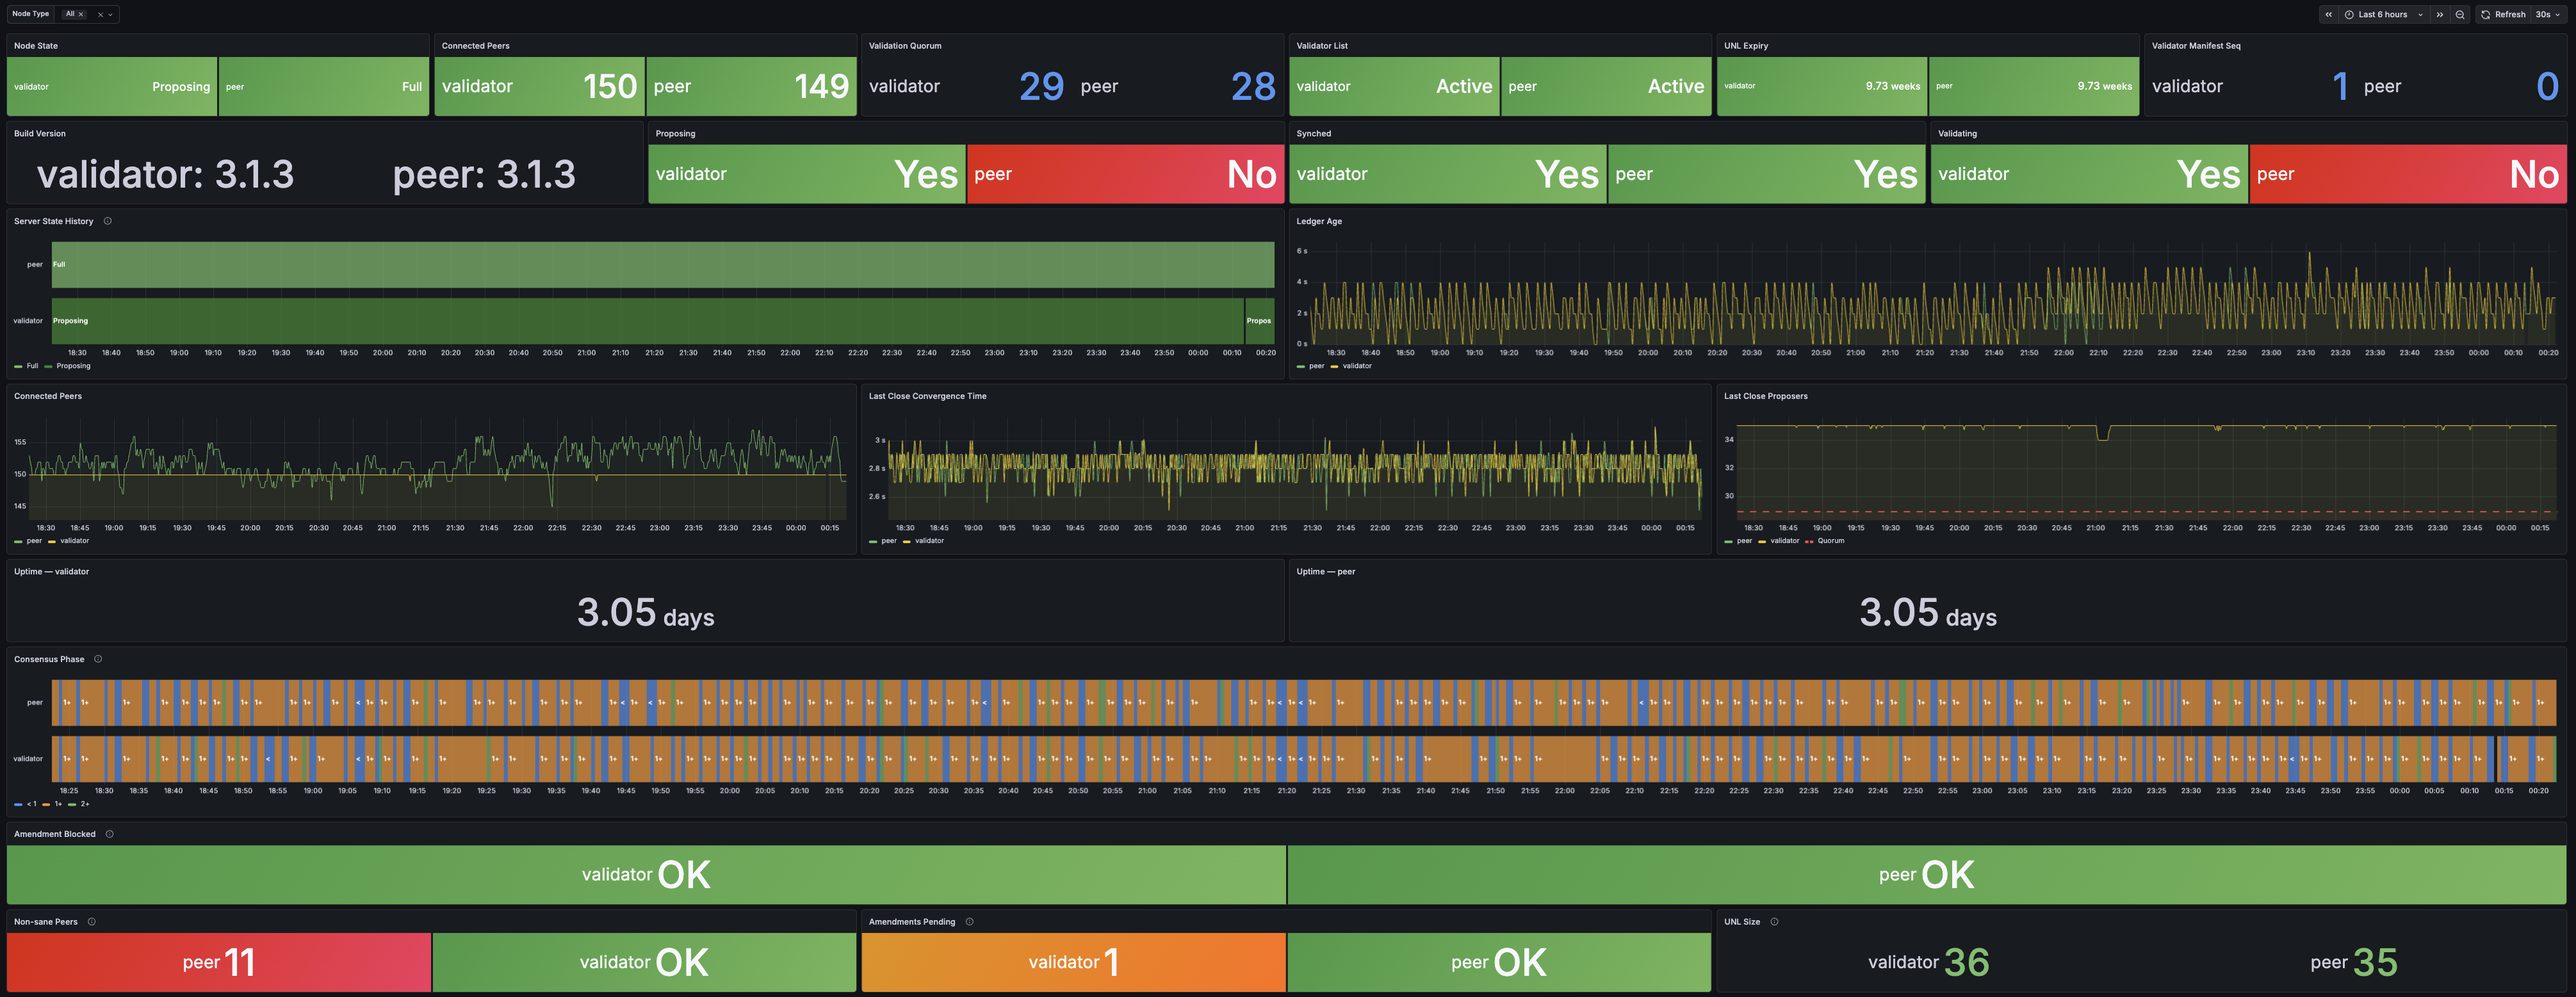
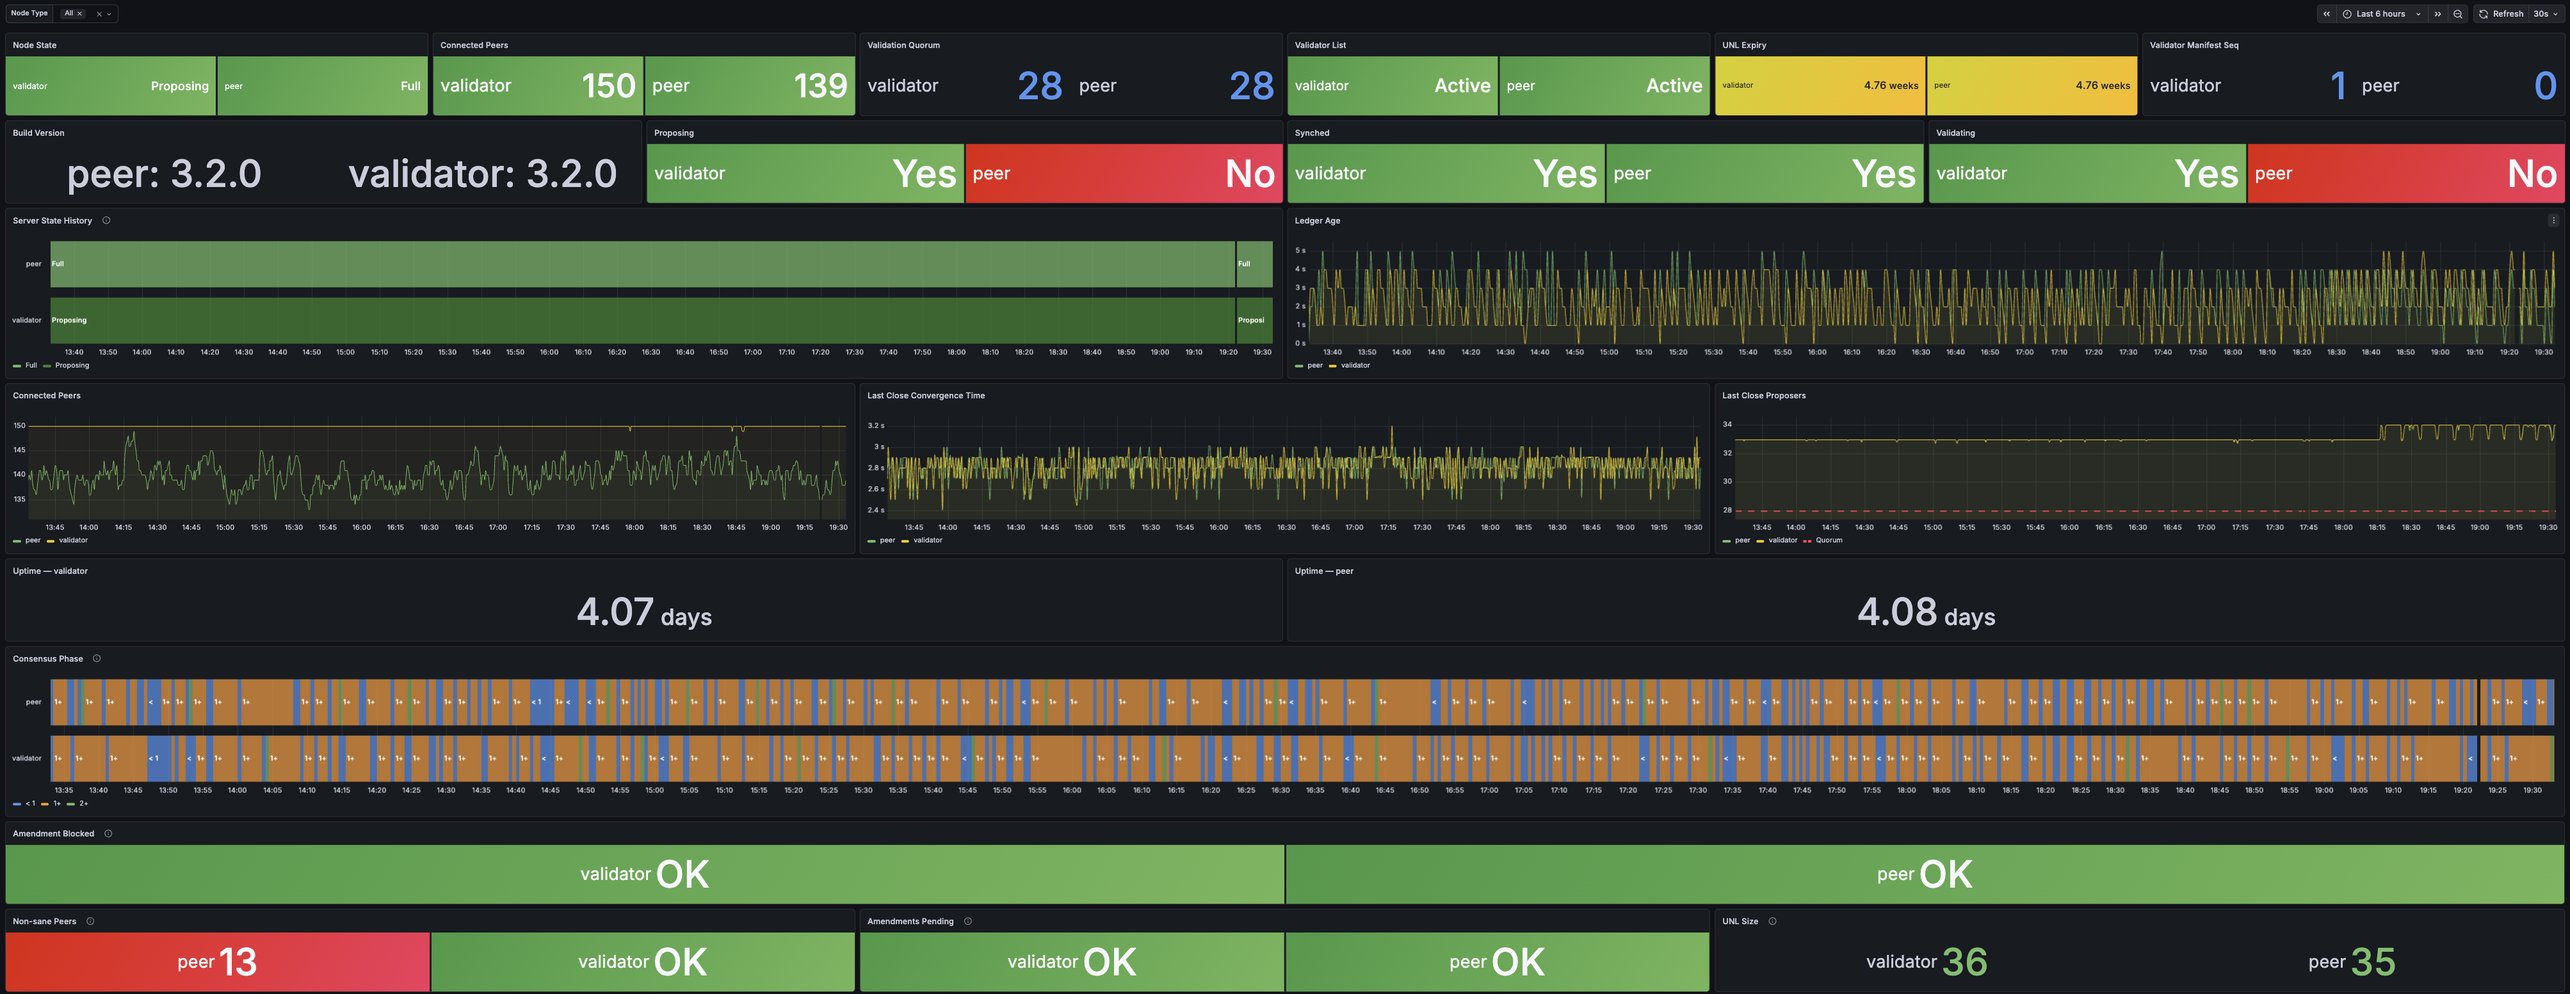
fix(exporter): support xrpld 3.2.0 namespace + windowed node-read hit… (#3)
* fix(exporter): support xrpld 3.2.0 namespace + windowed node-read hit rate, bump to v1.5.1

- objects_in_memory: read xrpl:: get_counts keys (3.2.0) with ripple:: fallback
  for pre-3.2.0 nodes; fixes Objects in Memory panel showing all zeros after the
  xrpld 3.2.0 ripple->xrpl namespace rename
- node_read_hit_rate: compute over per-scrape delta window instead of cumulative
  since startup, so transient cache-miss bursts recover realistically
- dashboard: rippled-deep-dive 45->44 panels, hit-rate panel description updates
- tests: add TestObjectsInMemoryNamespace (xrpl/ripple prefix, preference,
  missing key, nested HashRouter::Entry)
- bump __version__ 1.4.1 -> 1.5.1

* docs(readme): document xrpld 3.2.0 namespace handling in known issues

* docs(screenshots): refresh dashboard screenshots for v1.5.1

Updated overview and deep-dive (top/middle/bottom) captures reflecting the
44-panel layout and working Objects in Memory panel (xrpld 3.2.0 namespace fix).

---------

diff --git a/exporter/exporter.py b/exporter/exporter.py
@@ -28,7 +28,7 @@ from typing import Any
 import requests
 from prometheus_client import Counter as PromCounter, Gauge, start_http_server
 
-__version__ = "1.4.1"
+__version__ = "1.5.1"
 
 logging.basicConfig(
     level=logging.INFO,
@@ -87,6 +87,14 @@ _db_node_reads_last: int = 0
 _db_node_read_bytes_last: int = 0
 _db_node_written_bytes_last: int = 0
 _db_node_reads_duration_us_last: int = 0
+
+# Track raw node read hit/total counters so the node read hit rate can be
+# computed over the per-scrape delta (a real-time window) rather than as a
+# cumulative-since-startup ratio. The cumulative ratio is misleading: a burst
+# of cache-missing reads (e.g. peers requesting historical state the node has
+# pruned) makes it drop off a cliff and then recover only very slowly.
+_node_reads_hit_last: int = 0
+_node_reads_total_last: int = 0
 
 # Tracks last-seen rippled uptime; used to detect rippled restarts across scrapes
 _last_rippled_uptime_seconds: int | None = None
@@ -405,7 +413,9 @@ rippled_cache_ledger_hit_rate = Gauge(
 
 rippled_cache_node_read_hit_rate = Gauge(
     "rippled_cache_node_read_hit_rate",
-    "Node read cache hit rate as a percentage (0-100)",
+    "Node read cache hit rate (%) over the most recent scrape window, not "
+    "cumulative since startup. Falls back to the cumulative rate until two "
+    "scrapes have been observed, or when no reads occurred in the window.",
     COMMON_LABELS,
 )
 
@@ -1150,6 +1160,8 @@ def update_counts_metrics() -> None:
     global _db_node_read_bytes_last
     global _db_node_written_bytes_last
     global _db_node_reads_duration_us_last
+    global _node_reads_hit_last
+    global _node_reads_total_last
 
     data = query_rpc("get_counts")
     result: dict[str, Any] = data["result"]
@@ -1164,12 +1176,37 @@ def update_counts_metrics() -> None:
         float(result.get("SLE_hit_rate", 0))
     )
 
+    # Node read hit rate is computed over the per-scrape delta so it reflects
+    # current behaviour. The raw counters are cumulative since rippled startup;
+    # using them directly produces a rate that collapses on a read-miss burst
+    # and recovers only over hours/days. We track the previous hit/total and
+    # divide the deltas instead.
     node_reads_hit: int = int(result.get("node_reads_hit", 0))
     node_reads_total: int = int(result.get("node_reads_total", 0))
-    node_read_hit_rate: float = (
-        (node_reads_hit / node_reads_total * 100.0) if node_reads_total > 0 else 0.0
+
+    # Detect a counter reset (rippled restart): either counter dropping below
+    # its last value means we cannot form a meaningful delta this scrape.
+    counters_reset: bool = (
+        node_reads_hit < _node_reads_hit_last
+        or node_reads_total < _node_reads_total_last
     )
+    hit_delta: int = node_reads_hit - _node_reads_hit_last
+    total_delta: int = node_reads_total - _node_reads_total_last
+
+    if not counters_reset and total_delta > 0:
+        # Normal case: reads happened in this window — use the windowed rate.
+        node_read_hit_rate: float = hit_delta / total_delta * 100.0
+    elif node_reads_total > 0:
+        # First scrape, a reset, or an idle window with no reads — fall back to
+        # the cumulative rate so the metric is never misleadingly zero.
+        node_read_hit_rate = node_reads_hit / node_reads_total * 100.0
+    else:
+        node_read_hit_rate = 0.0
+
     rippled_cache_node_read_hit_rate.labels(node_type=NODE_TYPE).set(node_read_hit_rate)
+
+    _node_reads_hit_last = node_reads_hit
+    _node_reads_total_last = node_reads_total
 
     rippled_db_read_queue.labels(node_type=NODE_TYPE).set(int(result.get("read_queue", 0)))
     rippled_db_write_load.labels(node_type=NODE_TYPE).set(int(result.get("write_load", 0)))
@@ -1223,20 +1260,26 @@ def update_counts_metrics() -> None:
         int(result.get("historical_perminute", 0))
     )
 
-    for object_type, key in (
-        ("Ledger", "ripple::Ledger"),
-        ("Transaction", "ripple::Transaction"),
-        ("STTx", "ripple::STTx"),
-        ("STLedgerEntry", "ripple::STLedgerEntry"),
-        ("STObject", "ripple::STObject"),
-        ("STValidation", "ripple::STValidation"),
-        ("SHAMapInnerNode", "ripple::SHAMapInnerNode"),
-        ("SHAMapAccountStateLeafNode", "ripple::SHAMapAccountStateLeafNode"),
-        ("HashRouterEntry", "ripple::HashRouter::Entry"),
-        ("InboundLedger", "ripple::InboundLedger"),
+    # get_counts object keys are C++ namespace-qualified. xrpld 3.2.0 renamed the
+    # namespace from "ripple::" to "xrpl::"; older 3.1.x builds use "ripple::". Look
+    # up the new prefix first, then fall back to the legacy one so this exporter works
+    # against both 3.2.0+ and pre-3.2.0 nodes.
+    for object_type, unqualified_key in (
+        ("Ledger", "Ledger"),
+        ("Transaction", "Transaction"),
+        ("STTx", "STTx"),
+        ("STLedgerEntry", "STLedgerEntry"),
+        ("STObject", "STObject"),
+        ("STValidation", "STValidation"),
+        ("SHAMapInnerNode", "SHAMapInnerNode"),
+        ("SHAMapAccountStateLeafNode", "SHAMapAccountStateLeafNode"),
+        ("HashRouterEntry", "HashRouter::Entry"),
+        ("InboundLedger", "InboundLedger"),
     ):
+        object_count = result.get(f"xrpl::{unqualified_key}",
+                                  result.get(f"ripple::{unqualified_key}", 0))
         rippled_objects_in_memory.labels(node_type=NODE_TYPE, object_type=object_type).set(
-            int(result.get(key, 0))
+            int(object_count)
         )
 
     for db_name, key in (

diff --git a/exporter/tests/test_exporter.py b/exporter/tests/test_exporter.py
@@ -248,3 +248,111 @@ class TestReadsDurationDelta:
         """Sub-second deltas are represented correctly."""
         result = _reads_duration_delta_seconds(250_000, 0)
         assert result == pytest.approx(0.25)
+
+
+# ---------------------------------------------------------------------------
+# Windowed node read hit rate tests
+# ---------------------------------------------------------------------------
+
+def _windowed_node_read_hit_rate(
+    hit: int, total: int, hit_last: int, total_last: int
+) -> float:
+    """Mirror update_counts_metrics() windowed node-read-hit-rate logic."""
+    counters_reset: bool = hit < hit_last or total < total_last
+    hit_delta: int = hit - hit_last
+    total_delta: int = total - total_last
+    if not counters_reset and total_delta > 0:
+        return hit_delta / total_delta * 100.0
+    if total > 0:
+        return hit / total * 100.0
+    return 0.0
+
+
+class TestWindowedNodeReadHitRate:
+    def test_windowed_rate_uses_deltas(self) -> None:
+        """Rate reflects only reads in the window, not the cumulative ratio."""
+        # Cumulative would be 50/1000 = 5%, but the window is 90/100 = 90%.
+        result = _windowed_node_read_hit_rate(
+            hit=50 + 90, total=1000 + 100, hit_last=50, total_last=1000
+        )
+        assert result == pytest.approx(90.0)
+
+    def test_cold_window_drops_to_low_rate(self) -> None:
+        """A read-miss burst in the window produces a low windowed rate."""
+        # 1000 new reads, only 5 hits — 0.5% in the window.
+        result = _windowed_node_read_hit_rate(
+            hit=29_000_000 + 5, total=4_900_000_000 + 1000,
+            hit_last=29_000_000, total_last=4_900_000_000,
+        )
+        assert result == pytest.approx(0.5)
+
+    def test_first_scrape_falls_back_to_cumulative(self) -> None:
+        """With no prior reading (last=0), use the cumulative rate."""
+        result = _windowed_node_read_hit_rate(
+            hit=250, total=1000, hit_last=0, total_last=0
+        )
+        assert result == pytest.approx(25.0)
+
+    def test_idle_window_falls_back_to_cumulative(self) -> None:
+        """No reads in the window (total_delta == 0) — use cumulative rate."""
+        result = _windowed_node_read_hit_rate(
+            hit=500, total=2000, hit_last=500, total_last=2000
+        )
+        assert result == pytest.approx(25.0)
+
+    def test_counter_reset_falls_back_to_cumulative(self) -> None:
+        """rippled restart resets counters below last — use cumulative rate."""
+        result = _windowed_node_read_hit_rate(
+            hit=30, total=100, hit_last=9000, total_last=50000
+        )
+        assert result == pytest.approx(30.0)
+
+    def test_zero_total_returns_zero(self) -> None:
+        """No reads ever recorded — rate is zero, not a division error."""
+        result = _windowed_node_read_hit_rate(
+            hit=0, total=0, hit_last=0, total_last=0
+        )
+        assert result == 0.0
+
+
+def _object_count(get_counts_result: dict, unqualified_key: str) -> int:
+    """Mirror update_counts_metrics() object-key lookup.
+
+    xrpld 3.2.0 renamed the C++ namespace from "ripple::" to "xrpl::" in
+    get_counts keys. Prefer the new prefix, fall back to the legacy one so the
+    exporter reads object counts from both 3.2.0+ and pre-3.2.0 nodes.
+    """
+    return int(
+        get_counts_result.get(
+            f"xrpl::{unqualified_key}",
+            get_counts_result.get(f"ripple::{unqualified_key}", 0),
+        )
+    )
+
+
+class TestObjectsInMemoryNamespace:
+    def test_xrpld_320_xrpl_prefix(self) -> None:
+        """xrpld 3.2.0 emits xrpl::-prefixed keys."""
+        result = {"xrpl::Ledger": 352, "xrpl::Transaction": 30423}
+        assert _object_count(result, "Ledger") == 352
+        assert _object_count(result, "Transaction") == 30423
+
+    def test_legacy_ripple_prefix(self) -> None:
+        """Pre-3.2.0 nodes emit ripple::-prefixed keys (rollback-safe)."""
+        result = {"ripple::Ledger": 100, "ripple::STObject": 81045}
+        assert _object_count(result, "Ledger") == 100
+        assert _object_count(result, "STObject") == 81045
+
+    def test_xrpl_preferred_over_ripple(self) -> None:
+        """If both prefixes present, prefer the new xrpl:: value."""
+        result = {"xrpl::Ledger": 352, "ripple::Ledger": 999}
+        assert _object_count(result, "Ledger") == 352
+
+    def test_missing_key_returns_zero(self) -> None:
+        """Unknown object type yields 0, not a KeyError."""
+        assert _object_count({}, "Ledger") == 0
+
+    def test_nested_namespace_key(self) -> None:
+        """HashRouter::Entry keeps its inner :: after the prefix."""
+        result = {"xrpl::HashRouter::Entry": 42}
+        assert _object_count(result, "HashRouter::Entry") == 42

diff --git a/README.md b/README.md
@@ -26,7 +26,7 @@ One exporter instance runs per rippled node. Each exporter shares its target nod
 | `exporter/compose.yaml` | Docker Compose for both exporter instances |
 | `exporter/Dockerfile` | Container image definition |
 | `dashboards/rippled-overview.json` | Grafana dashboard — health at a glance (22 panels) |
-| `dashboards/rippled-deep-dive.json` | Grafana dashboard — detailed analysis (45 panels) |
+| `dashboards/rippled-deep-dive.json` | Grafana dashboard — detailed analysis (44 panels) |
 | `prometheus/scrape_configs.yaml` | Prometheus scrape config snippet for both exporters |
 
 ---
@@ -83,7 +83,7 @@ One exporter instance runs per rippled node. Each exporter shares its target nod
 | `rippled_ledger_queue_tx_max` | Gauge | Max queue capacity |
 | `rippled_ledger_expected_tx_count` | Gauge | Expected transactions per ledger |
 | `rippled_cache_ledger_hit_rate` | Gauge | Ledger cache hit rate (%) |
-| `rippled_cache_node_read_hit_rate` | Gauge | Node read cache hit rate (%) |
+| `rippled_cache_node_read_hit_rate` | Gauge | Node read cache hit rate (%), computed over the most recent scrape window (not cumulative since startup) so it reflects current behaviour |
 | `rippled_db_read_queue` | Gauge | Pending DB read requests |
 | `rippled_db_write_load` | Gauge | DB write load |
 | `rippled_consensus_proposing` | Gauge | 1 if node is proposing |
@@ -230,7 +230,7 @@ Both dashboards use a `${PROMETHEUS}` datasource placeholder and will prompt for
 ![rippled Deep Dive — Middle](screenshots/detailed-middle.png)
 ![rippled Deep Dive — Bottom](screenshots/detailed-bottom.png)
 
-45 panels — detailed analysis. Default time range: 6h / 30s refresh.
+44 panels — detailed analysis. Default time range: 6h / 30s refresh.
 
 - Inbound vs outbound peers, peer latency (capped at 500ms), consensus disputes
 - Network fees (base / median / open ledger), transaction queue, version spread (bar chart)
@@ -247,8 +247,8 @@ Both dashboards use a `${PROMETHEUS}` datasource placeholder and will prompt for
 - Initial sync duration, historical ledger fetch rate
 - Cache Health: AL/SLE hit rates, AL size, TreeNode cache and track size
 - I/O Detail: node read/write byte rates, reads duration rate, read thread saturation
-- Objects in Memory: 10 key rippled object types (Ledger, STTx, STObject, SHAMap nodes, etc.)
-- Job Type throughput and peak time per internal job type
+- Objects in Memory: 10 key rippled object types (Ledger, STTx, STObject, SHAMap nodes, etc.), graphed with a current/max/mean legend table
+- Job Type Throughput: jobs/s per internal job type, graphed with a current/max/mean legend table
 
 ### Template Variable
 
@@ -283,3 +283,4 @@ The rippled job is configured with a 3s scrape interval to match the ~3.5s ledge
 - **Version spread**: Stale version labels are zeroed out (not removed) to avoid a `prometheus_client` internal error triggered by `Gauge.clear()` after label removal in some library versions.
 - **validator_info on peer nodes**: rippled returns error code 31 ("not a validator") on peer nodes for the `validator_info` RPC. The exporter silences this at DEBUG level.
 - **Same-host port conflict**: Both rippled instances expose admin port 5005 internally. When running peer and validator on the same host, bind them to different host ports (`5005` and `5006`) and set `RIPPLED_URL` accordingly in the exporter compose.
+- **xrpld 3.2.0 namespace rename**: rippled 3.2.0 renamed the binary to `xrpld` and the internal C++ namespace from `ripple::` to `xrpl::`. This changed the object keys in the `get_counts` RPC (e.g. `ripple::Ledger` → `xrpl::Ledger`), which silently broke `rippled_objects_in_memory` (all zeros) until v1.5.1. The exporter now reads the `xrpl::`-prefixed keys first and falls back to `ripple::`, so it works against both 3.2.0+ and pre-3.2.0 nodes. The JSON-RPC API itself (endpoint names, port 5005) is unchanged by the rename, so no `RIPPLED_URL` change is needed when upgrading a node to 3.2.0.
